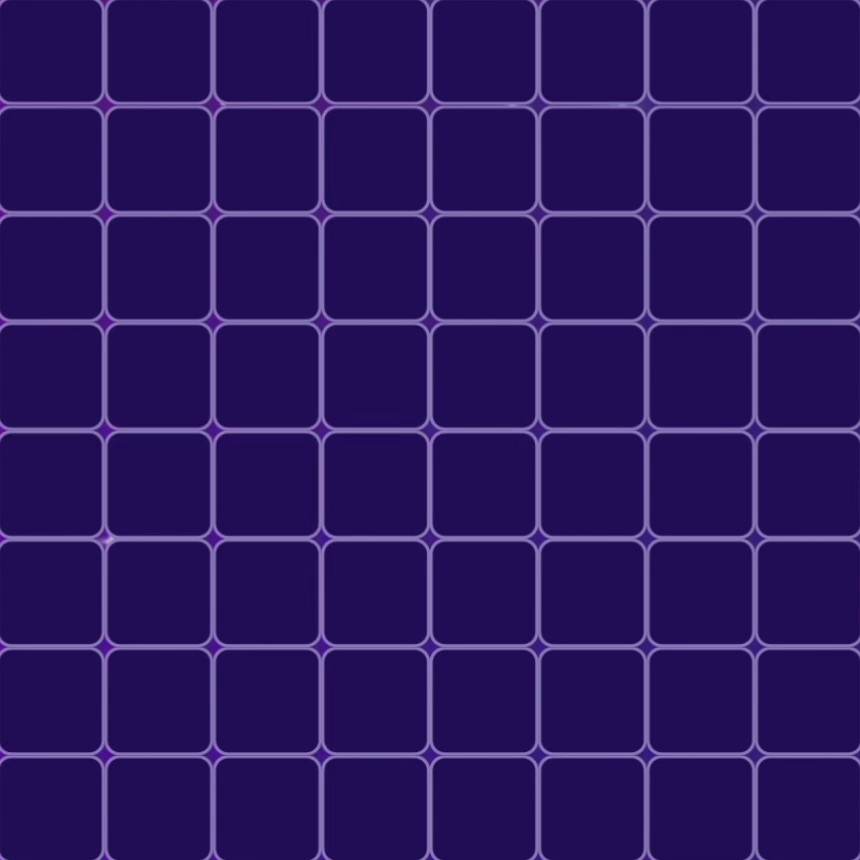
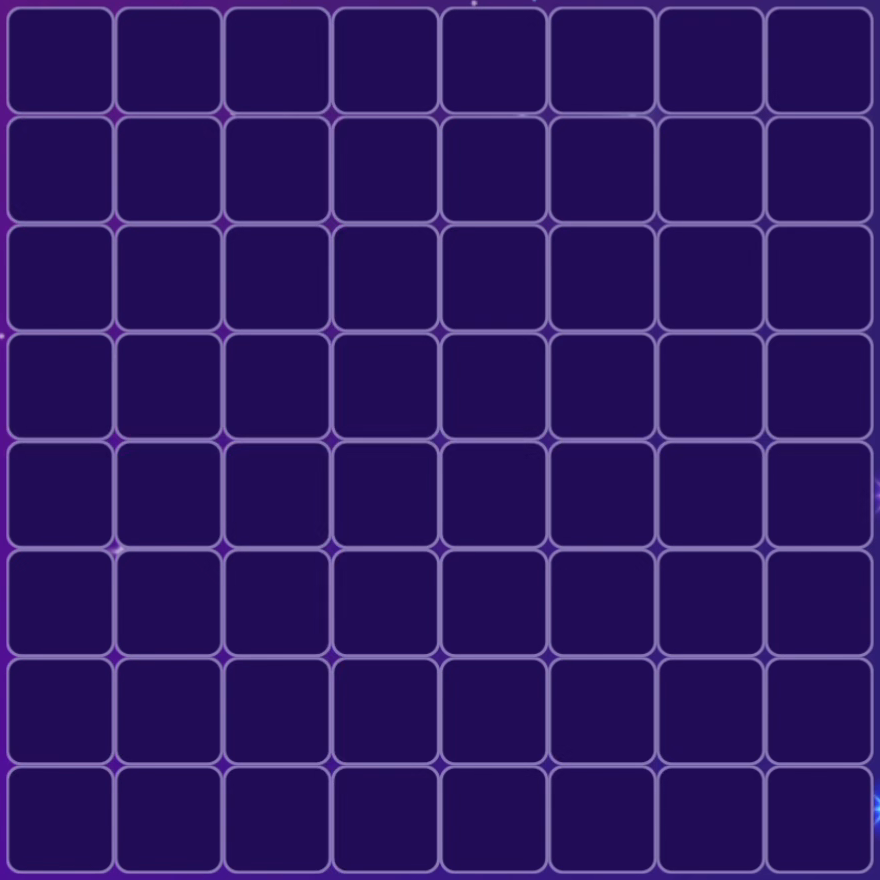
HUD 정렬과 보드 외곽선 수정
- 점수: 원작은 자릿수와 무관하게 텍스트 중심이 알약 폭의 59.5%에 고정된다
  (1자리/4자리/5자리 프레임에서 모두 x=213.75로 실측). 절대배치로 재현
- 게이지: 시계와 세로 중심을 맞춘다 (둘 다 y=145.5px)
- 보드: 격자 외곽선이 셀 영역 밖으로 약 7px 나가 잘렸다.
  이미지를 각 변 10px 패딩으로 다시 자르고 #board-frame 레이어에 분리
- 시계 바늘, h 코인의 점 추가
- ?dev 로 시작 화면 건너뛰기 (레이아웃 대조용)

Changed region(s): [[0.0, 0.0, 1.0, 1.0]]

diff --git a/css/ui.css b/css/ui.css
@@ -8,18 +8,19 @@
 }
 
 /* ── 점수 알약 ───────────────────────────────────────── */
+/* 원작은 자릿수와 무관하게 점수 텍스트의 중심이 항상 같은 x에 온다.
+   실측: 알약 x 12..350 안에서 텍스트 중심 213.75 = 알약 폭의 59.5% */
 #score-pill {
-  display: flex;
-  align-items: center;
-  gap: 2cqw;
-  padding-left: 0.6cqw;
   border-radius: 999px;
   background: rgba(24, 8, 54, 0.62);
   border: 0.28cqw solid rgba(150, 110, 220, 0.55);
 }
 
 #score-coin {
-  flex: none;
+  position: absolute;
+  left: 14.6%;
+  top: 50%;
+  transform: translate(-50%, -50%);
   width: 7.3cqw;
   height: 7.3cqw;
   border-radius: 50%;
@@ -30,7 +31,24 @@
   box-shadow: inset 0 -0.3cqw 0.5cqw rgba(0, 0, 0, .35);
 }
 
+/* h 옆의 점 — 보너스 칸 표기와 같은 모양 */
+#score-coin::after {
+  content: "";
+  position: absolute;
+  right: 20%;
+  top: 20%;
+  width: 1.15cqw;
+  height: 1.15cqw;
+  border-radius: 50%;
+  background: #fff;
+}
+
 #score {
+  position: absolute;
+  left: 59.5%;
+  top: 50%;
+  transform: translate(-50%, -50%);
+  white-space: nowrap;
   font-size: 5.7cqw;
   letter-spacing: 0.1cqw;
   text-shadow: 0 0.25cqw 0.4cqw rgba(0, 0, 0, .45);
@@ -53,8 +71,8 @@
   border-radius: 999px;
   transform-origin: 50% 100%;
 }
-#clock::before { width: 0.7cqw; height: 24%; transform: translate(-50%, -100%) rotate(35deg); }
-#clock::after  { width: 0.7cqw; height: 32%; transform: translate(-50%, -100%) rotate(-95deg); }
+#clock::before { width: 0.55cqw; height: 27%; border-radius: 0; transform: translate(-50%, -100%) rotate(22deg); }
+#clock::after  { width: 0.55cqw; height: 36%; border-radius: 0; transform: translate(-50%, -100%) rotate(-102deg); }
 
 #gauge {
   border-radius: 999px;
@@ -82,11 +100,8 @@
 
 /* ── 보드 ────────────────────────────────────────────── */
 /* 원작 보드는 "칸 + 투명 간격"이 아니라 밝은 격자에 어두운 구멍이 뚫린 한 장이다.
-   그래서 보드 전체를 이미지로 깔고, .cell 은 타일이 들어앉을 투명한 자리로만 쓴다. */
-#board {
-  background: url("../assets/board.png") center / 100% 100% no-repeat;
-}
-
+   그래서 격자는 #board-frame 에 이미지로 깔고(layout.css),
+   .cell 은 타일이 들어앉을 투명한 자리로만 쓴다. */
 .cell { position: relative; }
 
 .tile {

diff --git a/css/layout.css b/css/layout.css
@@ -37,11 +37,19 @@ body {
 #stage > * { position: absolute; }
 
 /* ── HUD ─────────────────────────────────────────────── */
-#score-pill { left: 1.85%;  top: 4.40%; width: 31.02%; height: 3.72%; }
-#clock      { left: 61.11%; top: 4.27%; width: 8.15%;  height: 3.85%; }
-#gauge      { left: 69.63%; top: 4.62%; width: 27.59%; height: 1.79%; }
+/* 셋 다 세로 중심이 y=145.5px(6.22%)로 같다 — 원작 실측 */
+#score-pill { left: 1.11%;  top: 4.27%; width: 31.39%; height: 3.89%; }
+#clock      { left: 61.94%; top: 4.34%; width: 8.15%;  height: 3.76%; }
+#gauge      { left: 69.63%; top: 5.32%; width: 27.59%; height: 1.79%; }
 
 /* ── 보드 ────────────────────────────────────────────── */
+/* 격자 이미지는 셀 영역보다 10px(각 변) 크다. 외곽선이 잘리지 않도록
+   이미지는 별도 레이어에 깔고, 그리드는 셀 영역에 정확히 맞춘다. */
+#board-frame {
+  left: 9.352%; top: 17.350%; width: 81.481%; height: 37.607%;
+  background: url("../assets/board.png") center / 100% 100% no-repeat;
+}
+
 #board {
   left: 10.28%; top: 17.78%; width: 79.63%; height: 36.75%;
   display: grid;

diff --git a/js/main.js b/js/main.js
@@ -67,6 +67,12 @@ var Game = (function () {
     refillTray();               // 시작 화면 뒤로 미리 보이게
 
     document.getElementById("start").addEventListener("click", start);
+
+    // ?dev — 시작 화면을 건너뛴다. 레이아웃 대조용.
+    if (/[?&]dev\b/.test(location.search)) {
+      stage.classList.add("started");
+      Render.setScore(25815);
+    }
     // 정식 동작(1.5초 대기)은 7단계에서. 지금은 즉시 리롤로 블록 확인용.
     document.getElementById("block-change").addEventListener("click", rerollTray);
   }

diff --git a/index.html b/index.html
@@ -29,6 +29,7 @@
     <div id="gauge-fill"></div>
   </div>
 
+  <div id="board-frame"></div>
   <div id="board"></div>
 
   <div class="slot" data-slot="0"></div>
